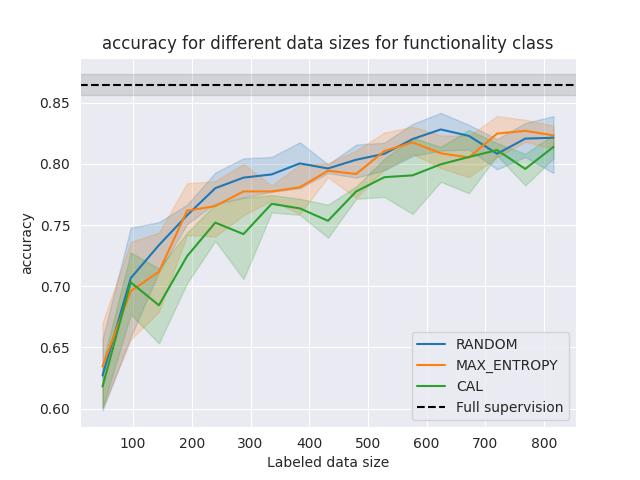
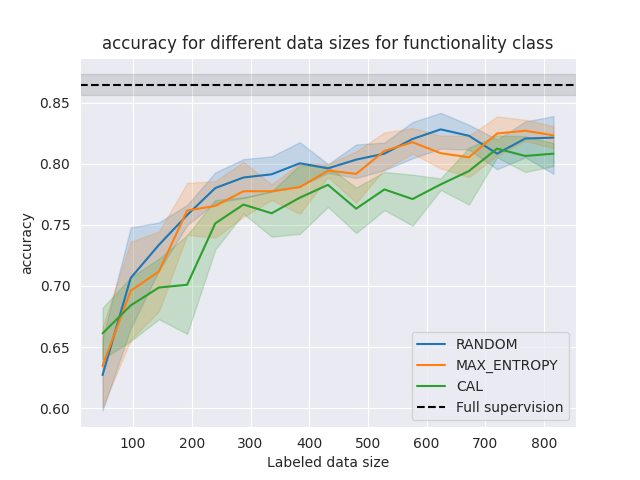
add original CAL

Changed region(s): [[0.1562, 0.25, 0.875, 0.8438], [0.0625, 0.5625, 0.0938, 0.625], [0.0625, 0.4375, 0.0938, 0.5]]

diff --git a/src/active_learning/strategy.py b/src/active_learning/strategy.py
@@ -101,6 +101,7 @@ class CALStrategy(QueryStrategy):
   def __init__(self, dataset, sample_size=48, batch_size=8, seed=42):
     super().__init__(dataset, sample_size, batch_size, seed)
     self.num_neighbors = 10 # default value used in CAL repo
+    self.use_true_labels = False # True for ablation experiment.
 
   def process_labeled_data(self, learner, train_loader):
     learner.model.eval()
@@ -143,24 +144,34 @@ class CALStrategy(QueryStrategy):
       batch_size=unlab_batch_size,
       shuffle=False)
 
-    kl_scores = []
+    divergence_scores = []
     learner.model.eval()
     with torch.no_grad():
       for batch in tqdm(data_loader, desc="Finding neighbours for every unlabeled data point"):
         unlab_logits, unlab_embeddings = learner.inference(batch, return_cls=True) # batch_size x num_classes
         neighbour_indices = neigh.kneighbors(X=unlab_embeddings.cpu().numpy(),
         return_distance=False)
+
         batch_size = neighbour_indices.shape[0]
-        neigh_labels = torch.reshape(
+
+        if self.use_true_labels:
+          # Ablation - use ground truth labels.
+          neigh_labels = torch.reshape(
           train_labels[neighbour_indices.flatten()], 
           (batch_size, self.num_neighbors, num_classes)) 
+        else:
+          # "Original" CAL method - use model predicitons.
+          neigh_logits = torch.reshape(
+            train_logits[neighbour_indices.flatten()], 
+            (batch_size, self.num_neighbors, num_classes))
+          neigh_labels = torch.round(torch.sigmoid(neigh_logits))
 
         for i, label in enumerate(neigh_labels):
           x = unlab_logits[i].repeat(self.num_neighbors, 1)
-          kl = criterion(x.cpu(), label)
-          kl_scores.append(kl)
+          divergence = criterion(x, label)
+          divergence_scores.append(divergence.cpu())
         
-    partitioned_indices = np.argpartition(kl_scores, -self.sample_size)
+    partitioned_indices = np.argpartition(divergence_scores, -self.sample_size)
     indices_to_label = partitioned_indices[-self.sample_size:]
     unlabeled_data_indices = partitioned_indices[:-self.sample_size]
     data_to_label = torch.utils.data.Subset(self.dataset, indices_to_label)
